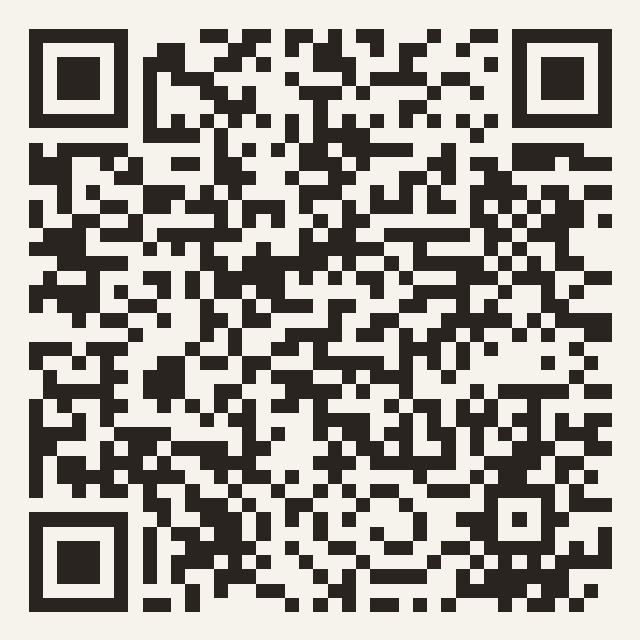
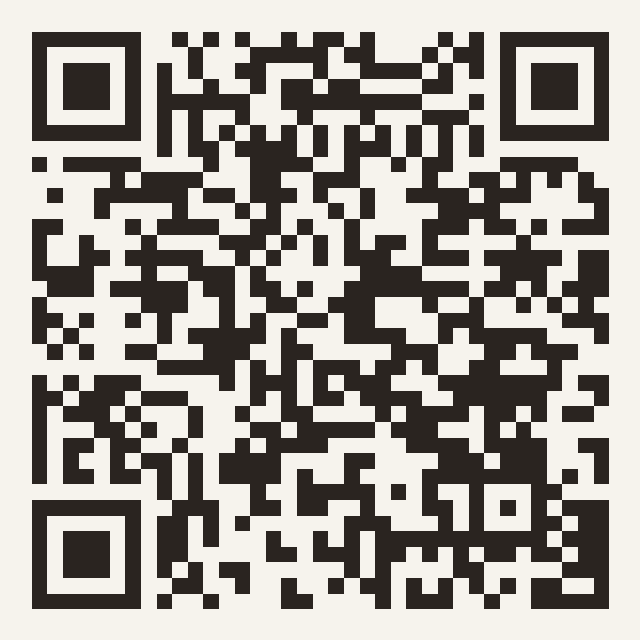
README: download from GitHub releases, which do not expire
EAS artifact links are deleted after two weeks, which is how the README's
APK link went dead on 2026-08-31. v1.1.0 is now a GitHub release with the
APK attached, and the download button and QR point at
releases/latest/download/DSA-Mastery.apk, so they follow each new release
without edits. make-qr accepts this repo's release URLs; the QR is still
decoded back and checked before it is kept.

diff --git a/README.md b/README.md
@@ -22,14 +22,14 @@ browser until you sign in).
 <table>
 <tr>
 <td width="220" align="center">
-<img src="docs/install-qr.png" width="200" alt="QR code linking to the DSA Mastery Android install page">
+<img src="docs/install-qr.png" width="200" alt="QR code linking to the latest DSA Mastery APK download">
 <br><sub><b>Scan to install</b></sub>
 </td>
 <td>
 
-**[⬇ Download the APK directly](https://expo.dev/artifacts/eas/O0-8HaU_YUA10MiPuu3IH907Pv5gnRqQKw3JjlfPReQ.apk)**
+**[⬇ Download the APK directly](https://github.com/imsky1812/dsaTracker/releases/latest/download/DSA-Mastery.apk)**
 
-or open the **[install page](https://expo.dev/accounts/imsky1812/projects/dsa-mastery/builds/892f61d4-de25-4bfb-b273-a21915a0d3ac)**
+or see all versions on the **[releases page](https://github.com/imsky1812/dsaTracker/releases)**
 on your phone.
 
 1. Tap the APK to download it.
@@ -43,9 +43,10 @@ new version installs straight over the old one — no uninstall needed.
 </tr>
 </table>
 
-> The direct artifact link belongs to one specific build and will not last
-> forever; the install page is the durable reference. To cut a fresh APK, see
-> [Building an APK](#building-an-apk).
+> The download link always serves the APK from the newest
+> [GitHub release](https://github.com/imsky1812/dsaTracker/releases), so it
+> never expires (EAS's own artifact links are deleted after two weeks). To cut a
+> fresh APK, see [Building an APK](#building-an-apk).
 
 **On iPhone or a Mac?** Use the [web app](https://dsamastery.expo.app/) — it
 needs no Apple account. A standalone iOS build would require the Apple Developer
@@ -276,10 +277,19 @@ npx eas-cli build -p android --profile preview
 The `preview` profile emits an installable APK; `production` emits an app bundle
 for Play.
 
-After a build, point the README's QR at it:
+After a build, publish the APK as a GitHub release. EAS artifact links expire
+after two weeks; a release asset does not:
 
 ```bash
-npm run qr -- https://expo.dev/accounts/<you>/projects/dsa-mastery/builds/<id>
+gh release create v<version> path/to/DSA-Mastery.apk --title "DSA Mastery <version>"
+```
+
+Keep the asset named `DSA-Mastery.apk`. The README's download button and QR
+point at `releases/latest/download/DSA-Mastery.apk`, which always resolves to
+the newest release, so neither needs changing per build. The QR is generated by:
+
+```bash
+npm run qr -- https://github.com/imsky1812/dsaTracker/releases/latest/download/DSA-Mastery.apk
 ```
 
 That regenerates `docs/install-qr.png`, then **decodes the PNG it just wrote**
